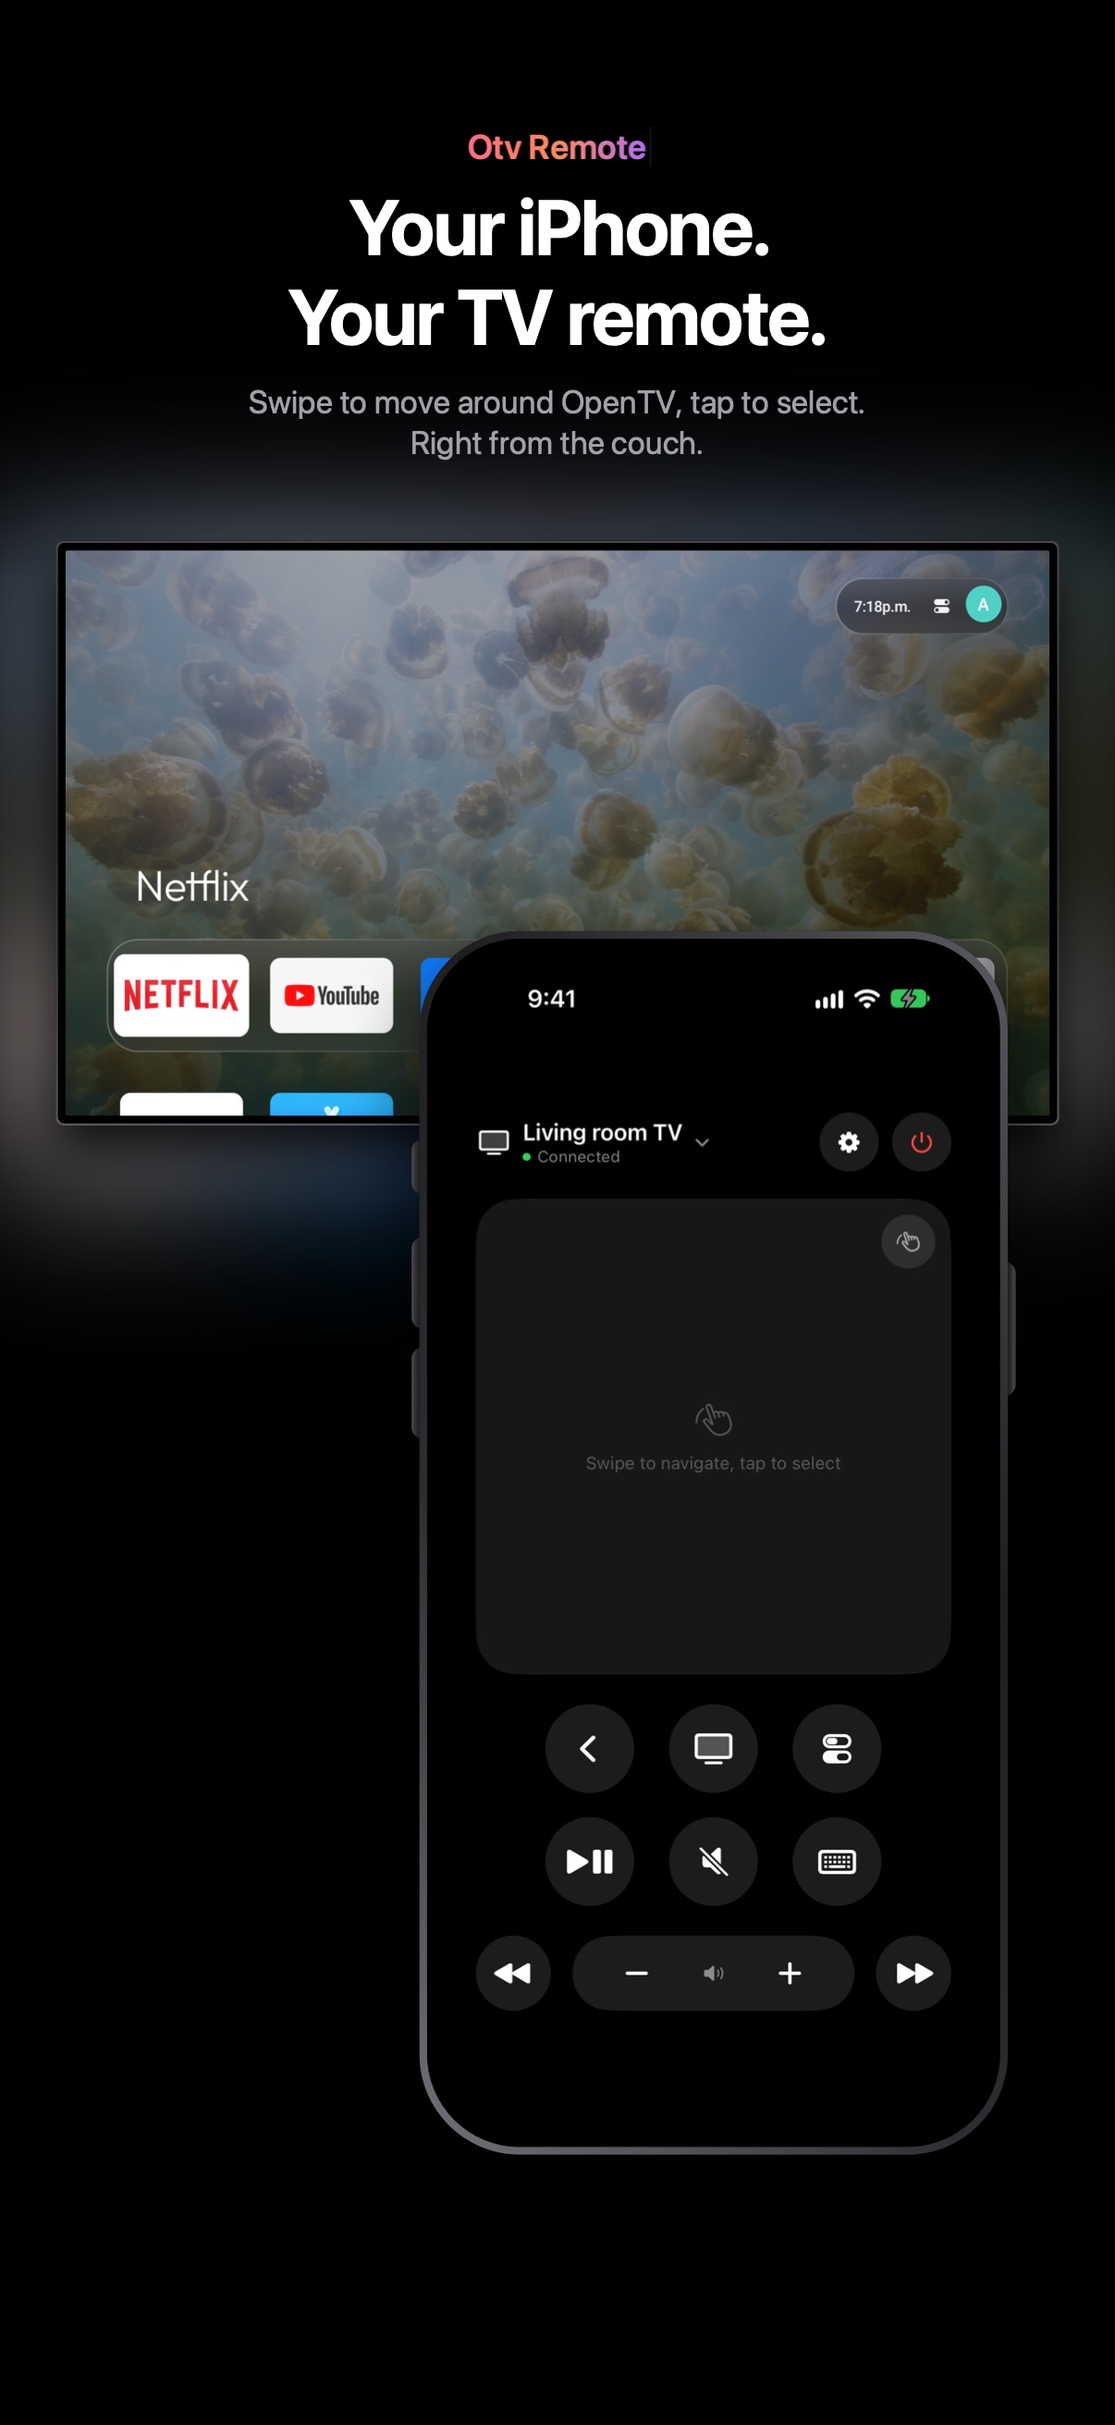
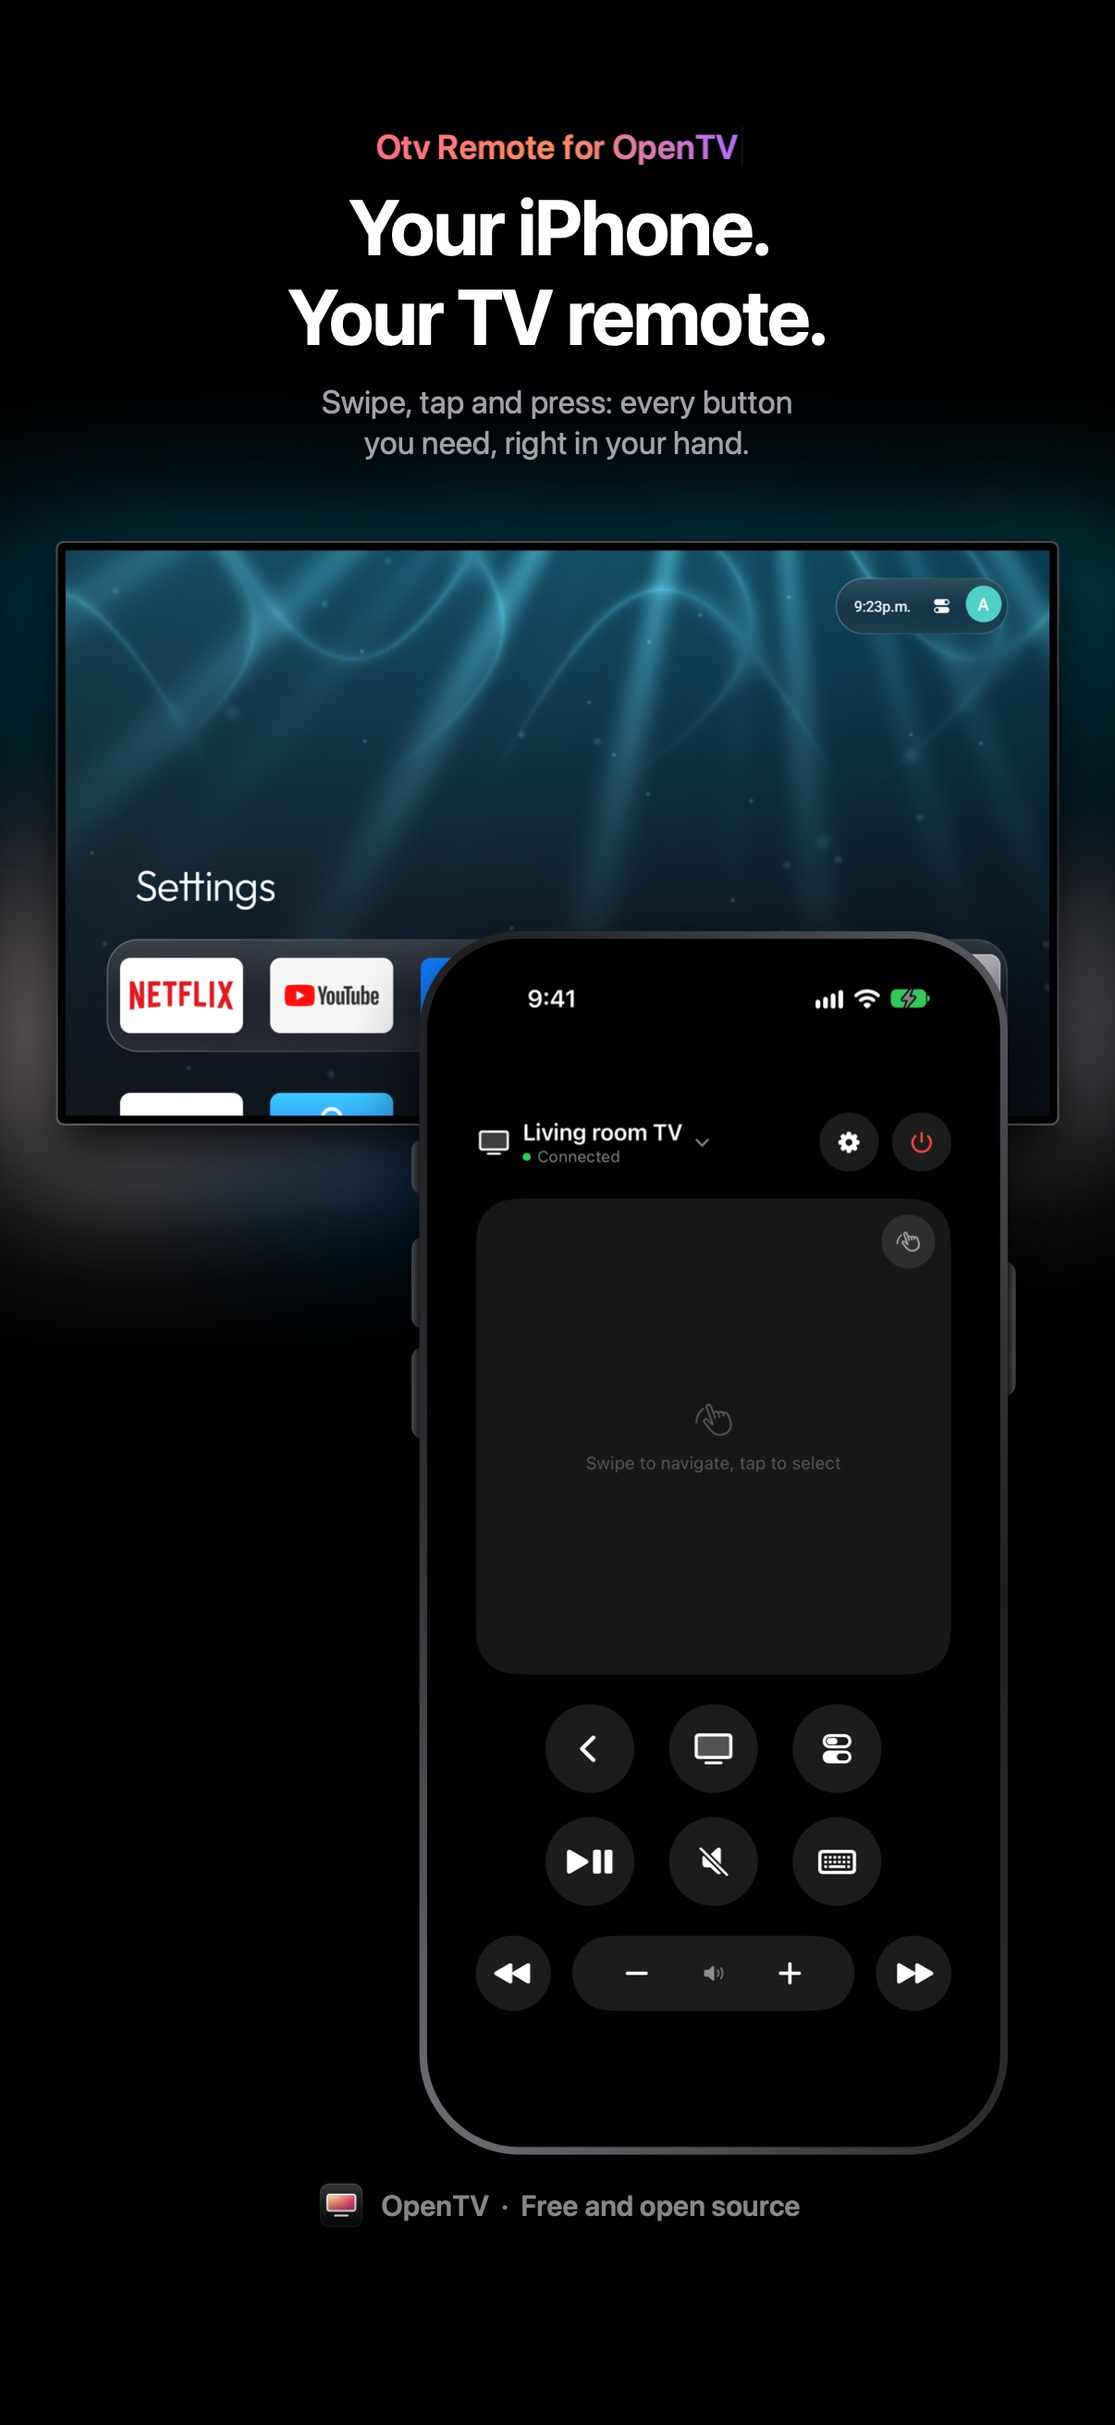
Otv Remote App Store screenshots: eight slides covering every feature, with OpenTV on each; listing updated. OtvOS: live wallpapers stay right under Control Center and after coming back to Home
- Slides: remote, Control Center, trackpad, keyboard, live wallpapers, TV settings, Xbox Cloud Gaming sign-in, and pairing with where to get OpenTV free. Own live wallpapers instead of Apple's aerials; placeholders for personal details.
- Listing: every feature, OpenTV promoted, no other platforms named.
- OtvOS: a live wallpaper holds its frame under panels and is redrawn fresh when Home returns (it could come back black).

diff --git a/tv-remote-apps/AppStore/make-screenshots.swift b/tv-remote-apps/AppStore/make-screenshots.swift
@@ -32,8 +32,11 @@ let settingsTile = Placeholder.tile(CGRect(x: 1572, y: 778, width: 240, height: 
                                     svg: here.appendingPathComponent("../../docs/images/tiles/settings.svg").path)
 let avatar = Placeholder.avatar(center: CGPoint(x: 1792, y: 102), radius: 35, letter: "A")
 let placeholders: [String: [Placeholder]] = [
-    "home": [avatar, settingsTile],
-    "wallpaper": [avatar, settingsTile],
+    "home": [avatar],
+    "wallpaper": [avatar],
+    "xbox": [avatar],
+    "pair": [.text(CGRect(x: 734, y: 722, width: 452, height: 40), sample: CGPoint(x: 722, y: 740),
+                   text: "Or open http://192.168.1.50:8800 in a browser", size: 23, color: 0x8E8E93)],   // the TV's address
     "control-center": [avatar, .text(CGRect(x: 1680, y: 244, width: 125, height: 38), sample: CGPoint(x: 1800, y: 262),
                                      text: "Home Wi-Fi", size: 23, color: 0xA9A9AE)],
     "cloud": [.gamerChip(CGRect(x: 1470, y: 40, width: 380, height: 135))],
@@ -300,16 +303,22 @@ func drawRoom(_ screen: NSImage, tvFrame: NSRect, W: CGFloat, H: CGFloat, streng
 struct Slide { let file, tv, phone, eyebrow, headline, sub: String }
 
 let slides: [Slide] = [
-    Slide(file: "1-remote", tv: "home", phone: "remote", eyebrow: "Otv Remote",
-          headline: "Your iPhone.\nYour TV remote.", sub: "Swipe to move around OpenTV, tap to select.\nRight from the couch."),
-    Slide(file: "2-trackpad", tv: "browser", phone: "browser", eyebrow: "Trackpad",
+    Slide(file: "1-remote", tv: "home", phone: "remote", eyebrow: "Otv Remote for OpenTV",
+          headline: "Your iPhone.\nYour TV remote.", sub: "Swipe, tap and press: every button\nyou need, right in your hand."),
+    Slide(file: "2-control-center", tv: "control-center", phone: "remote", eyebrow: "Control Center",
+          headline: "Everything,\none press away.", sub: "Power, Wi-Fi, volume, AirPlay and more.\nAlso on your Lock Screen and with Siri."),
+    Slide(file: "3-trackpad", tv: "browser", phone: "browser", eyebrow: "Trackpad",
           headline: "Point and click\non the big screen.", sub: "Open a web page on the TV and the remote\nturns into a trackpad by itself."),
-    Slide(file: "3-keyboard", tv: "typing", phone: "typing", eyebrow: "Keyboard",
+    Slide(file: "4-keyboard", tv: "typing", phone: "typing", eyebrow: "Keyboard",
           headline: "Type with the\nkeyboard you know.", sub: "Search, sign in and fill in boxes on the TV\nfrom your iPhone."),
-    Slide(file: "4-wallpaper", tv: "wallpaper", phone: "wallpaper", eyebrow: "Wallpaper",
-          headline: "Change the scenery\nin a tap.", sub: "Slow-motion aerials, desktop pictures\nor your own photos behind your apps."),
-    Slide(file: "5-settings", tv: "screensaver", phone: "screensaver", eyebrow: "TV Settings",
+    Slide(file: "5-live-wallpapers", tv: "wallpaper", phone: "wallpaper", eyebrow: "Live Wallpapers",
+          headline: "Scenes drawn live.\nChosen in a tap.", sub: "Aurora and Underwater, aerials, desktop\npictures or your own photos."),
+    Slide(file: "6-settings", tv: "screensaver", phone: "screensaver", eyebrow: "TV Settings",
           headline: "Set up the TV\nfrom your phone.", sub: "Screen savers, inputs, Bluetooth\nand software updates."),
+    Slide(file: "7-cloud-gaming", tv: "xbox", phone: "settings", eyebrow: "Xbox Cloud Gaming",
+          headline: "Sign in on your phone.\nPlay on your TV.", sub: "Use your saved passwords. The TV signs\nitself in, encrypted end to end."),
+    Slide(file: "8-get-opentv", tv: "pair", phone: "pair", eyebrow: "OpenTV · Free and open source",
+          headline: "Pair once.\nYou're all set.", sub: "Get OpenTV for your TV, free, at\nharkhowalia-1.github.io/OpenTV"),
 ]
 
 func appStore(width: Int, height: Int) {
@@ -329,7 +338,16 @@ func appStore(width: Int, height: Int) {
 
             drawTV(screen, in: tvFrame, scale: s)
             // The iPhone in front, overlapping the TV's lower right: the remote and what it controls, together.
-            _ = drawPhone(phone(slide.phone), screenWidth: 640 * s, centerX: W * 0.64, top: tvFrame.maxY - 230 * s, scale: s)
+            let phoneFrame = drawPhone(phone(slide.phone), screenWidth: 640 * s, centerX: W * 0.64, top: tvFrame.maxY - 230 * s, scale: s)
+            // OpenTV, on every slide: its icon and a line about it, under the phone.
+            if let icon = NSImage(contentsOfFile: here.appendingPathComponent("../../docs/icon.png").path) {
+                let line = text("OpenTV  ·  Free and open source", size: 34 * s, weight: .semibold, color: color(0x86868B))
+                let lw = line.size().width, iw = 64 * s, gap = 16 * s
+                let y = min(H - 150 * s, phoneFrame.maxY + 60 * s)
+                let x0 = (W - (iw + gap + lw)) / 2
+                icon.draw(in: NSRect(x: x0, y: y - iw / 2, width: iw, height: iw), from: .zero, operation: .sourceOver, fraction: 1, respectFlipped: true, hints: nil)
+                line.draw(at: CGPoint(x: x0 + iw + gap, y: y - line.size().height / 2))
+            }
         }
         save(rep, "\(slide.file).jpg")
     }

diff --git a/launcher-source/app/src/main/java/com/gathin/tvhome/MainActivity.java b/launcher-source/app/src/main/java/com/gathin/tvhome/MainActivity.java
@@ -305,9 +305,17 @@ public class MainActivity extends Activity implements AppAdapter.TileListener {
         playLive(kind);
     }
 
+    private boolean liveFresh;
+
     /** A live wallpaper: drawn on the TV behind the apps, only while Home is showing (over its still). */
     private void playLive(String kind) {
         int mode = Live.mode(kind);
+        if (liveFresh && liveView != null) {
+            liveView.stop();
+            ((android.view.ViewGroup) liveView.getParent()).removeView(liveView);
+            liveView = null;
+        }
+        liveFresh = false;
         if (mode < 0) {
             if (liveView != null) {
                 liveView.stop();
@@ -324,6 +332,7 @@ public class MainActivity extends Activity implements AppAdapter.TileListener {
         }
         liveView.setVisibility(View.VISIBLE);
         liveView.setMode(mode);
+        liveView.setPaused(false);
         liveView.start();
         liveView.animate().alpha(1f).setStartDelay(150).setDuration(800).start();
     }
@@ -449,6 +458,12 @@ public class MainActivity extends Activity implements AppAdapter.TileListener {
         resumed = false;
         adapter.endEditing();   // leaving Home ends edit mode, as pressing Home does on iPhone
         statusSlot.setVisibility(View.INVISIBLE);   // a panel on top draws its own pill in the same spot
+        // A live wallpaper holds its last frame under Control Center and other panels (drawn on behind their blur,
+        // it comes out black); it carries on when Home is back.
+        if (liveView != null) {
+            liveView.setPaused(true);
+            liveFresh = true;   // a new one takes over when Home is back (a reused one can come back black)
+        }
         handler.removeCallbacks(minuteTick);
         handler.removeCallbacks(wallpaperTick);
     }
@@ -473,8 +488,10 @@ public class MainActivity extends Activity implements AppAdapter.TileListener {
         stopAerial();
         aerialUrl = null;
         if (liveView != null) {
+            // A fresh scene each time Home comes back: one reused after its surface went away draws black.
             liveView.stop();
-            liveView.setAlpha(0f);
+            ((android.view.ViewGroup) liveView.getParent()).removeView(liveView);
+            liveView = null;
         }
         android.widget.ImageView wall = findViewById(R.id.wallpaper);
         android.graphics.drawable.Drawable d = wall.getDrawable();

diff --git a/launcher-source/app/src/main/java/com/gathin/tvhome/Live.java b/launcher-source/app/src/main/java/com/gathin/tvhome/Live.java
@@ -109,7 +109,7 @@ final class Live {
     static final class Scene extends TextureView implements TextureView.SurfaceTextureListener {
         private static final long FRAME_MS = 1000 / 24;
         private volatile int mode = 1;
-        private volatile boolean wanted;
+        private volatile boolean wanted, paused;
         private Thread thread;
 
         Scene(Context c) {
@@ -119,6 +119,11 @@ final class Live {
 
         void setMode(int m) {
             mode = m;
+        }
+
+        /** Holds the last frame (under Control Center and other panels) without letting go of the surface. */
+        void setPaused(boolean p) {
+            paused = p;
         }
 
         void start() {
@@ -152,10 +157,17 @@ final class Live {
                     // Start somewhere in the scene's life, not at its very first second.
                     long t0 = SystemClock.elapsedRealtime() - 30_000;
                     while (wanted && !Thread.currentThread().isInterrupted()) {
+                        if (paused) {
+                            Thread.sleep(120);
+                            continue;
+                        }
                         long f = SystemClock.elapsedRealtime();
                         float secs = ((f - t0) % 3_600_000L) / 1000f;   // stays precise on the GPU
                         gl.draw(mode, W, H, secs);
                         gl.swap();
+                        // Repaint the whole scene each frame: without it Home only redraws the parts that change for
+                        // other reasons (the title, the glass), and the rest of the screen stays black.
+                        postInvalidateOnAnimation();
                         long wait = FRAME_MS - (SystemClock.elapsedRealtime() - f);
                         if (wait > 0) Thread.sleep(wait);
                     }

diff --git a/tv-remote-apps/AppStore/Listing.md b/tv-remote-apps/AppStore/Listing.md
@@ -38,42 +38,55 @@ Free, all countries and regions.
 ## Version 1.3.2
 
 **Promotional text (170)**
-Swipe, tap and type to control OpenTV from the couch. Your iPhone becomes a trackpad for web pages, and sets up the TV's wallpaper, screen saver and more.
+The remote for OpenTV: swipe, tap and type from the couch, set live wallpapers and screen savers, and sign the TV in to Xbox Cloud Gaming. OpenTV is free.
 
 **Description**
 Your iPhone. Your TV remote.
 
-Otv Remote is the remote control for OpenTV, the free and open-source home screen for TVs running Android TV and Google TV. Pair once and control everything from the couch.
+Otv Remote is the remote control for OpenTV, the free and open-source home screen that turns your TV into a calm, beautiful place for everything you watch and play. Pair once and control it all from the couch.
 
 A REMOTE THAT FEELS RIGHT
 • Swipe to move around, tap to select
-• Back, Home, Control Center, play and pause, mute and skip
+• Back, Home, play and pause, mute and skip
 • Your iPhone's volume buttons change the TV's volume while the app is open
 • Power: sleep and wake the TV
+
+CONTROL CENTER, ONE PRESS AWAY
+• Power, Wi-Fi, Bluetooth, volume, sleep timer and screen saver
+• AirPlay, Apple Home, Game Mode and Close Background Apps
+• Remote controls on your Lock Screen and in Control Center, plus Siri and Shortcuts
 
 A TRACKPAD AND A KEYBOARD
 • Open a web page on the TV and the remote turns into a trackpad by itself
 • Type in search boxes and sign-in fields with the keyboard you already know
 
+LIVE WALLPAPERS AND SCREEN SAVERS
+• Aurora and Underwater: scenes drawn live by the TV, never the same twice
+• Slow-motion aerials, desktop pictures, Bing's picture of the day or your own photos
+• Screen savers that match your wallpaper, or pick their own
+
 SET UP THE TV FROM YOUR PHONE
-• Wallpaper: aerials, desktop pictures, Bing's picture of the day or your own photos, applied at once
-• Screen saver, inputs, Bluetooth accessories and software updates
-• Sign the TV in to Xbox Cloud Gaming with your saved passwords; the session reaches the TV encrypted, end to end
+• Wallpaper and screen saver, applied at once
+• Inputs, Bluetooth accessories and software updates
+
+XBOX CLOUD GAMING
+• Sign the TV in with your saved passwords on the iPhone; the session reaches the TV encrypted, end to end
+• Your gamertag, friends and games on the TV, with the remote as a controller
 
 ALWAYS AT HAND
-• Controls for Control Center and the Lock Screen
-• Siri and Shortcuts actions
 • Send to TV from the Share sheet: videos, songs and web pages open on the TV
+• Pair once with a code; it reconnects by itself, and the whole family can connect
 
 PRIVATE BY DESIGN
 • No account, no tracking, nothing collected. The app talks only to your TV, over your own Wi-Fi.
 
-Requires a TV with OpenTV installed. OpenTV is free at harkhowalia-1.github.io/OpenTV and installs from a Mac, from the TV itself or with adb.
+GET OPENTV, FREE
+Otv Remote needs a TV running OpenTV. It's free and open source: install it from a Mac with OpenTV Installer, straight from the TV, or with a command line. Everything you need is at harkhowalia-1.github.io/OpenTV.
 
 **Keywords (100)**
-tv remote,remote control,trackpad,keyboard,smart tv,television,couch,wallpaper,screensaver,opentv
+tv remote,remote control,trackpad,keyboard,smart tv,live wallpaper,screensaver,opentv,couch,airplay
 
-*(No brand names in keywords: Apple rejects other companies' trademarks there.)*
+*(No other companies' brands in keywords, and no other platforms named in the screenshots or name: Apple rejects both.)*
 
 **Support URL** https://github.com/harkhowalia-1/OpenTV/issues
 **Marketing URL** https://harkhowalia-1.github.io/OpenTV/
@@ -83,11 +96,23 @@ First release on the App Store.
 
 ## Screenshots
 
-- iPhone 6.9" (required): [Screenshots-6.9in/](Screenshots-6.9in), 1320 × 2868, in order 1 to 5.
+Eight, in this order, each with OpenTV's name along the bottom:
+
+1. Remote: "Your iPhone. Your TV remote."
+2. Control Center: "Everything, one press away."
+3. Trackpad: "Point and click on the big screen."
+4. Keyboard: "Type with the keyboard you know."
+5. Live Wallpapers: "Scenes drawn live. Chosen in a tap."
+6. TV Settings: "Set up the TV from your phone."
+7. Xbox Cloud Gaming: "Sign in on your phone. Play on your TV."
+8. Get OpenTV: "Pair once. You're all set." (with the website)
+
+- iPhone 6.9" (required): [Screenshots-6.9in/](Screenshots-6.9in), 1320 × 2868.
 - iPhone 6.3": [Screenshots-6.3in/](Screenshots-6.3in), 1206 × 2622 (optional; App Store Connect scales the 6.9" ones otherwise).
 
 Remake them with `swift make-screenshots.swift appstore Screenshots-6.9in 1320 2868` (and `… Screenshots-6.3in 1206 2622`).
-The raw captures in `Captures/` stay on this Mac (git ignores them); personal details in them are blurred by the script.
+The raw captures in `Captures/` stay on this Mac (git ignores them); personal details in them are replaced with
+placeholders by the script (profile "A", "Home Wi-Fi", a sample network address).
 
 ## App Review information
 

diff --git a/tv-remote-apps/AppStore/Checklist.md b/tv-remote-apps/AppStore/Checklist.md
@@ -5,7 +5,7 @@ Done and ready:
 - [x] Signed App Store build, version 1.3.2 (1): `tv-remote-apps/build/appstore/` (the archive and the exported IPA; not in git)
 - [x] Privacy manifests for the app and both extensions, export compliance (`ITSAppUsesNonExemptEncryption = NO`)
 - [x] Listing text, keywords, review notes and privacy answers: [Listing.md](Listing.md)
-- [x] Five screenshots at 6.9" and 6.3": [Screenshots-6.9in/](Screenshots-6.9in), [Screenshots-6.3in/](Screenshots-6.3in)
+- [x] Eight screenshots at 6.9" and 6.3": [Screenshots-6.9in/](Screenshots-6.9in), [Screenshots-6.3in/](Screenshots-6.3in)
 - [x] Privacy policy (https://harkhowalia-1.github.io/OpenTV/privacy.html), support and marketing pages
 - [x] Builds contain no folder names, device details or other personal information
 
@@ -16,8 +16,8 @@ Before you submit, decide on these (each can get the app rejected):
    remote, is the safe choice.
 2. **A demo video.** Reviewers don't have a TV with OpenTV, so attach a 1–2 minute screen recording (iPhone screen
    recording plus the TV in view, or side by side) to the review notes (guideline 2.1).
-3. **Other companies' logos.** Screenshots 1 and 4 show the TV's home row with Netflix, YouTube, Prime Video, Xbox
-   and Spotify tiles. Usually fine for a remote app, but if Review objects, re-capture with those tiles moved off
+3. **Other companies' logos.** Screenshots 1, 2, 5 and 7 show the TV's home row with Netflix, YouTube, Prime Video,
+   Xbox and Spotify tiles. Usually fine for a remote app, but if Review objects, re-capture with those tiles moved off
    the first row.
 
 Your steps (about 20 minutes):
@@ -28,7 +28,7 @@ Your steps (about 20 minutes):
    press Deliver. (This IPA has no symbol files, so your Mac's folder names stay off Apple's servers too. If you use
    Xcode › Window › Organizer › *Otv Remote 1.3.2 (1)* › Distribute App instead, untick "Upload your app's symbols".)
    It shows up under TestFlight after about 15 minutes.
-3. **Fill in the listing** from Listing.md, drag in the five 6.9" screenshots, and pick the build.
+3. **Fill in the listing** from Listing.md, drag in the eight 6.9" screenshots in order, and pick the build.
 4. **App Privacy:** "No, we do not collect data."
 5. **Test once on TestFlight** on your iPhone: pair, swipe, type, change the wallpaper.
 6. **Add for Review › Submit**, with the demo video attached. Review usually takes 1–2 days.
